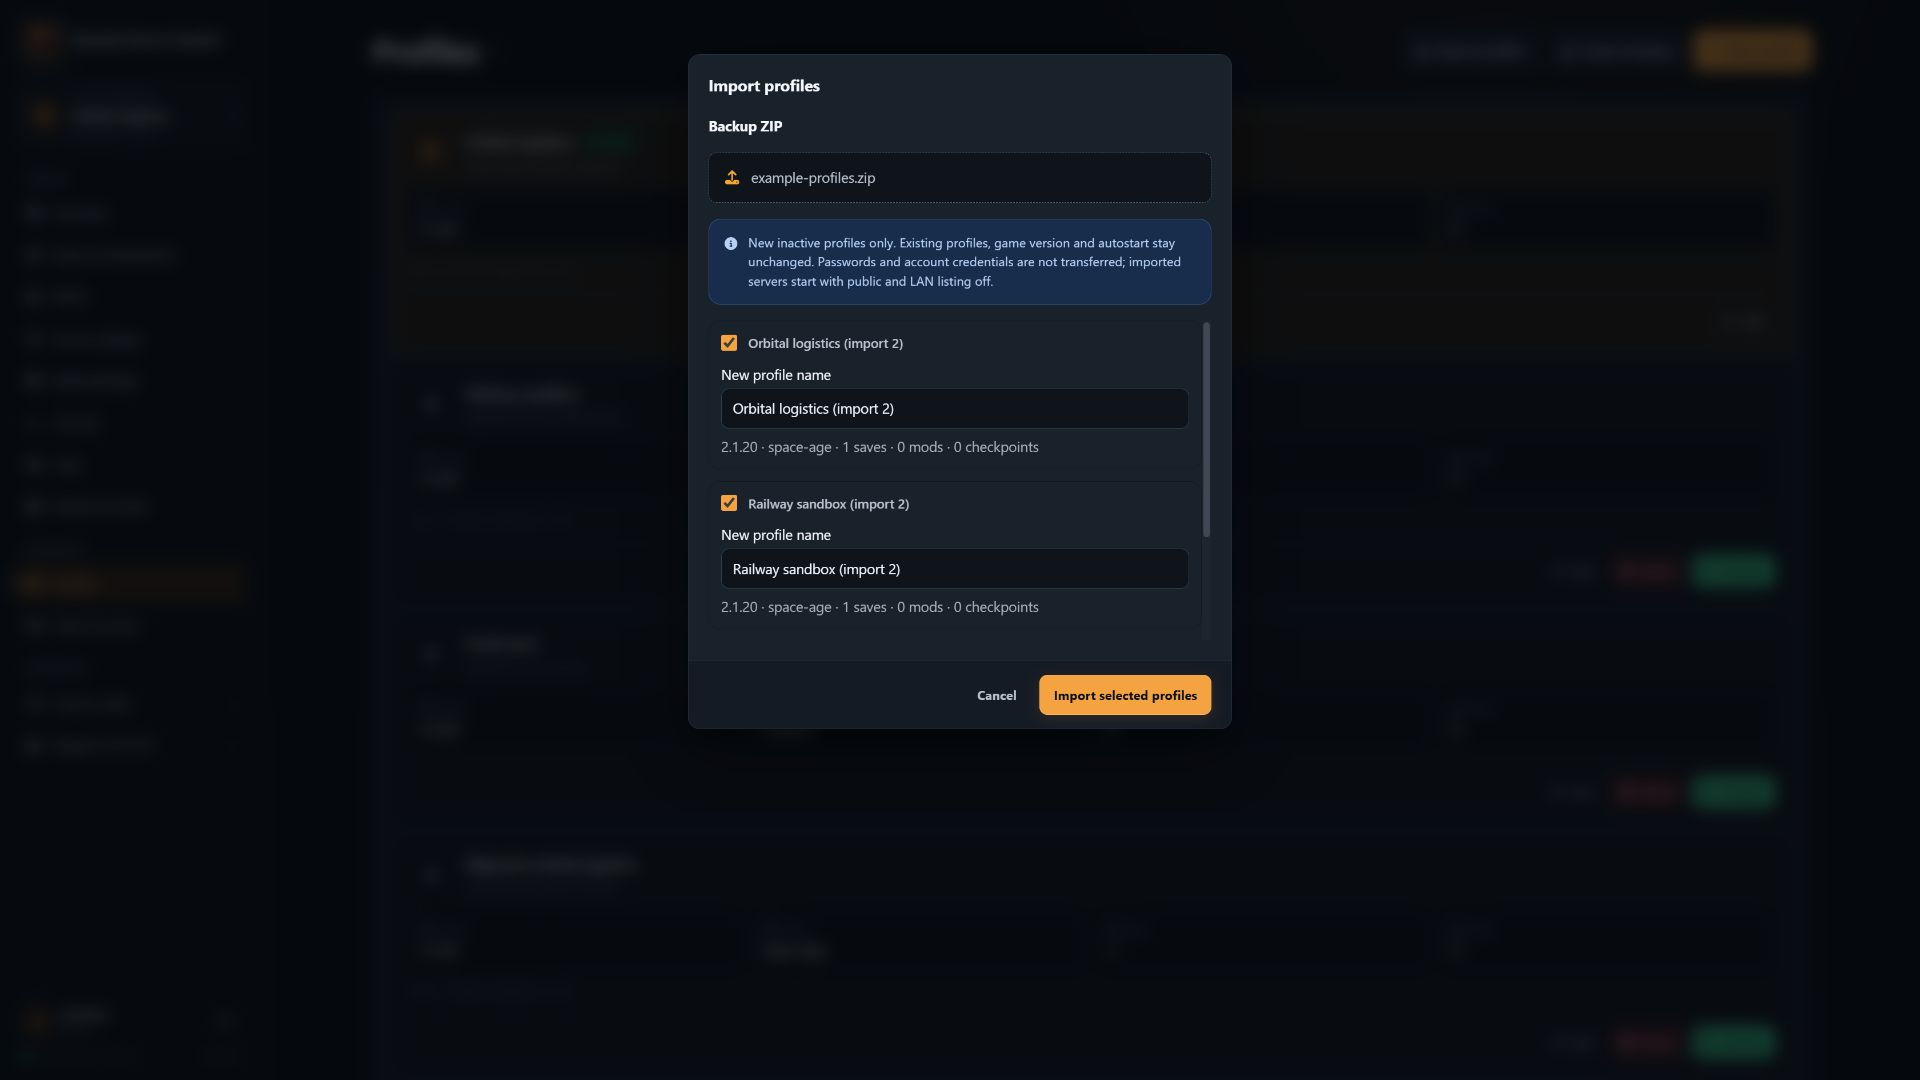
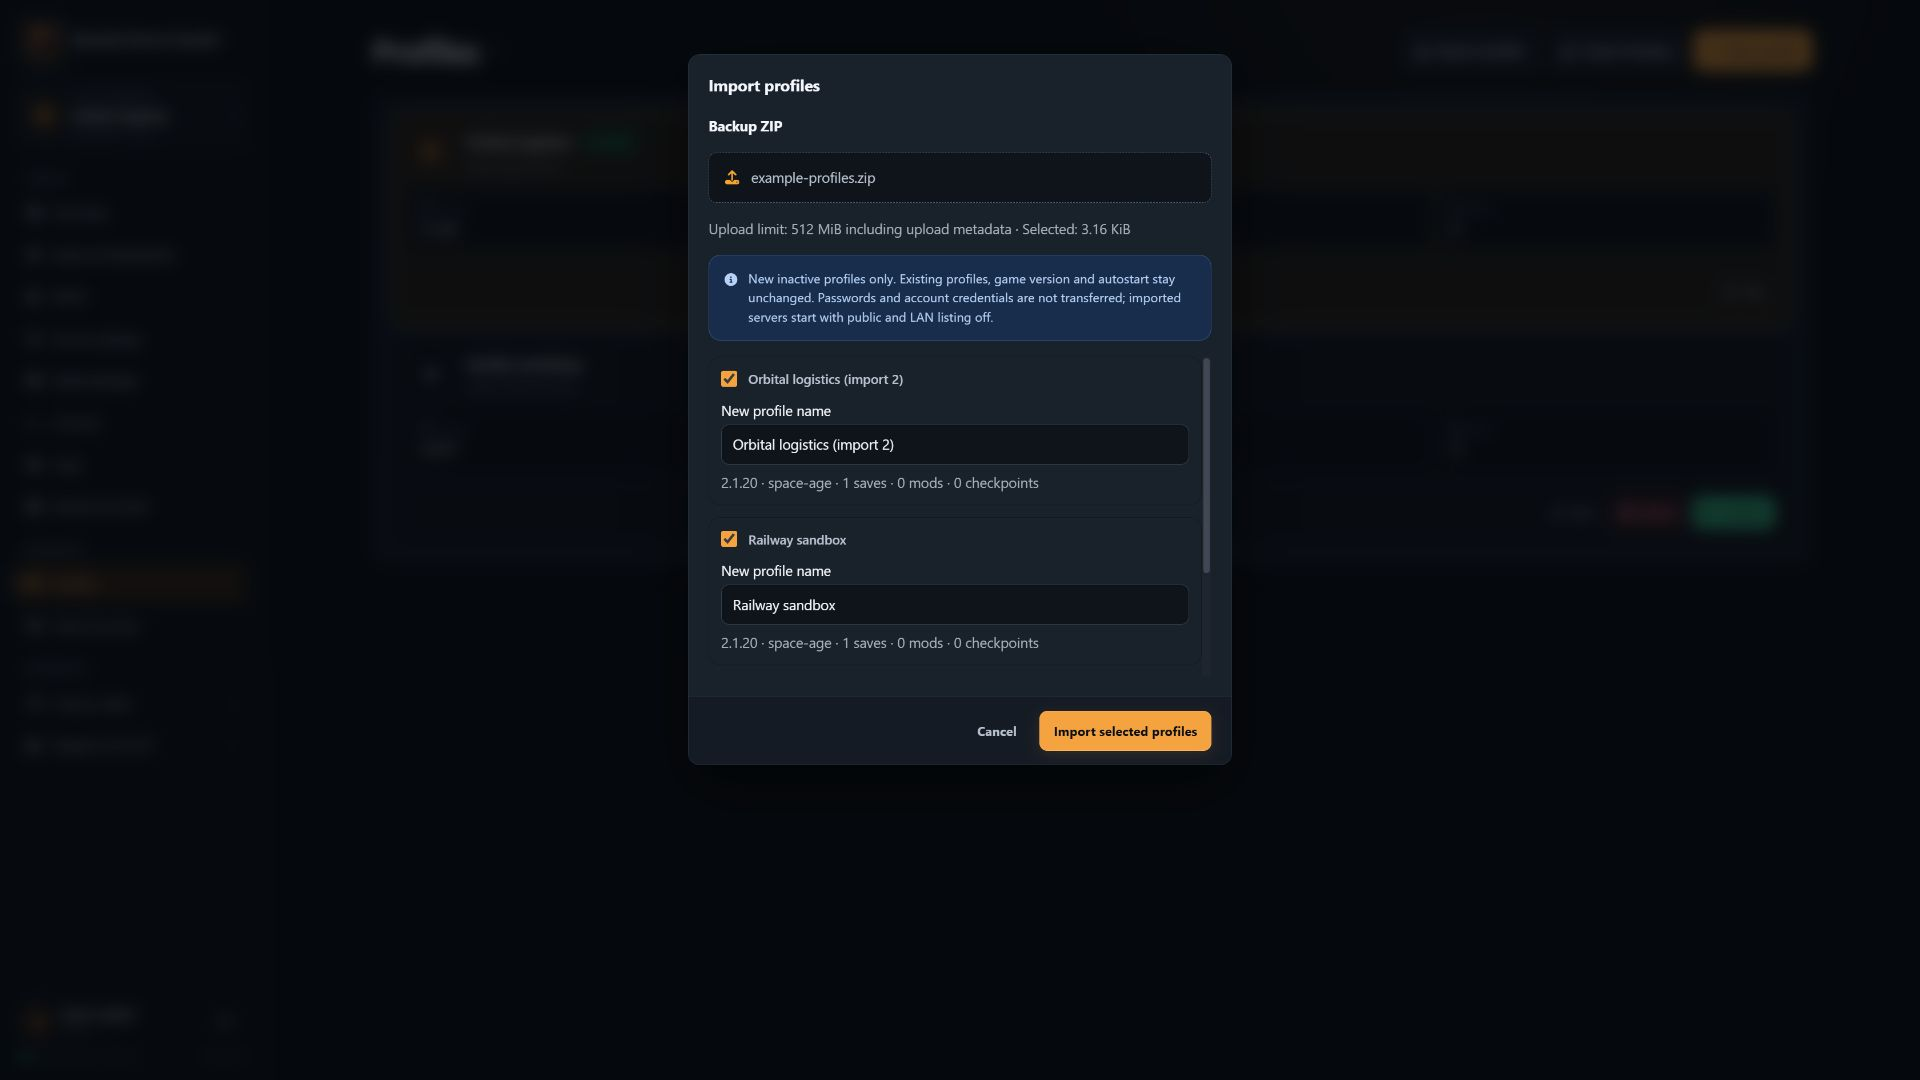
docs(backups): explain large archive limits and refresh preview

diff --git a/README.md b/README.md
@@ -195,6 +195,10 @@ For older mod-only backups, use **Mods → Restore backup** with a ZIP made by *
 
 Backup format 1 supports zipped mods, up to 256 profiles, 30,000 archive entries and 16 GiB total expanded outer-archive contents. Unpacked mod folders and unrelated files are not imported. The existing `FSM_MAX_UPLOAD` limit also applies (512 MiB by default, including multipart overhead; the backup endpoint caps it at 16 GiB). Export fewer profiles or omit saves/checkpoints if needed. Both hosts need temporary disk space for staging; an export can temporarily require approximately twice the selected data size. ZIPs with invalid paths, duplicates, incomplete saves or missing enabled mods are rejected before activation.
 
+The import dialog shows the destination's effective upload limit and rejects oversized files **before uploading**, for both profile and mod backups. It reserves 68 KiB for multipart headers and profile selection, and rechecks the limit before preview and final import. If the limit cannot be checked, retry the size check before continuing. A reverse proxy can impose a lower limit independently.
+
+**Large collections:** when a combined ZIP would exceed the destination's upload limit (512 MiB by default), export individual profiles or smaller groups instead of one all-profiles backup. Splitting by profile does not help if a single profile is already too large: omit saves/checkpoints if they are not needed, or increase `FSM_MAX_UPLOAD` on the destination (for example `2048` allows a 2 GiB request) and recreate the container to apply the setting. The 16 GiB request/expanded-content caps still apply; raising the upload limit does not provide extra temporary disk space. A large mod-only backup likewise needs a suitable destination limit. Keep your full offline backup as well.
+
 These portable backups supplement full offline backups of `/opt/fsm-data` and the configured Factorio volumes. They do not replace them: full backups also preserve manager accounts, global settings and mod packs. Existing profile manifests and directory layouts stay at their current schema; no migration is required to install this feature.
 
 ### New worlds

diff --git a/docker/README.md b/docker/README.md
@@ -97,6 +97,8 @@ Game-server autostart is configured inside **Server settings**. To run multiple 
 
 For a portable transfer between managers that support it, use [Profiles → Export profiles / Import backup](../README.md#profile-and-mod-backups). Imports add inactive profiles with new IDs; they do not replace manager accounts or the current profile. The existing `FSM_MAX_UPLOAD` setting controls incoming backup size (512 MiB by default). Ensure sufficient temporary/container disk space for ZIP staging, and review credentials and public/LAN listing before starting an imported profile. Older **Download all** mod ZIPs can be restored from **Mods → Restore backup**.
 
+The restore dialog checks the effective upload limit before sending the ZIP, reserving a small margin for multipart metadata. Above the destination's limit, export profiles individually or in smaller groups instead of one combined backup. If one profile is too large, omit optional saves/checkpoints or set a larger `FSM_MAX_UPLOAD` in MiB (for example `2048`) and recreate the container; in Unraid, edit the variable and apply the change. This does not remove the 16 GiB request/expanded-archive caps, increase free temporary storage or change a reverse proxy's own upload limit. Existing installations keep their configured limit.
+
 For a full offline migration, including manager accounts and global configuration, continue with the volume-copy procedure below.
 
 The new public name does not rename compatibility-sensitive storage. The repository/image/executable namespace and default Unraid root deliberately remain `factorio-server-manager`; original Factorio Server Manager database/config filenames, `/opt/fsm-data`, `/opt/factorio` and `FSM_*` variables also remain stable. A stopped original deployment can therefore be migrated by copying its existing manager and Factorio data into the supported mappings; no branding-only rename or data conversion is required.

diff --git a/TECHNICAL-NOTES.md b/TECHNICAL-NOTES.md
@@ -108,6 +108,7 @@ The one-runtime boundary is per manager process, not per Docker host. Independen
 - Profile server-settings authentication fields are scrubbed on export and import. Imports disable public/LAN listing and reuse destination-local network bindings and `config.ini`. No source host paths or manager secrets are included. Opaque saves and mod settings are not anonymized.
 - Mod-only restore accepts the historical flat Download all layout (nested mod ZIPs plus `mod-list.json`/`mod-settings.dat`). It validates the set before the existing mount-safe directory-entry transaction and checks the expected active profile under lifecycle locking. It never renames a mounted directory or installs a Factorio release.
 - Backup operations are administrator-only POST routes. Copy/export/restore requires a stopped runtime; there is no automatic game stop or start. Profiles and mod-only imports intentionally have separate previews and confirmation semantics.
+- `GET /api/backups/limits` is administrator-only, read-only and non-cacheable; it exposes only the effective request cap and a safe file cap (request limit minus 68 KiB for multipart headers and the bounded selection JSON). Both backup upload flows recheck it before each POST. Oversized known-length requests are rejected before reading the body; unknown/chunked requests retain the bounded streaming reader. Existing `FSM_MAX_UPLOAD` defaults and the 16 GiB hard cap are unchanged. Transport failures during an actual upload point to connectivity, proxy limits and temporary storage, not a blanket manager-offline diagnosis.
 
 ### Profile-aware UI state
 

diff --git a/CHANGELOG.md b/CHANGELOG.md
@@ -5,6 +5,11 @@ The format is based on [Keep a Changelog](https://keepachangelog.com/en/1.0.0/).
 
 ## [Unreleased]
 
+### Fixed
+- Check profile and mod backup sizes against the destination's actual upload limit before preview and import, with room reserved for multipart metadata. Oversized backups no longer start an upload that misleadingly reports the control service as unreachable.
+- Show the effective upload limit and guidance to export large profile collections individually or in smaller groups. A single oversized profile still needs fewer optional contents or a larger `FSM_MAX_UPLOAD`; existing limits and installations are unchanged.
+- Reject oversized known-length backup requests before writing temporary upload data and provide actionable messages for interrupted uploads.
+
 ## [0.19.0] - 2026-09-26
 
 ### Added
